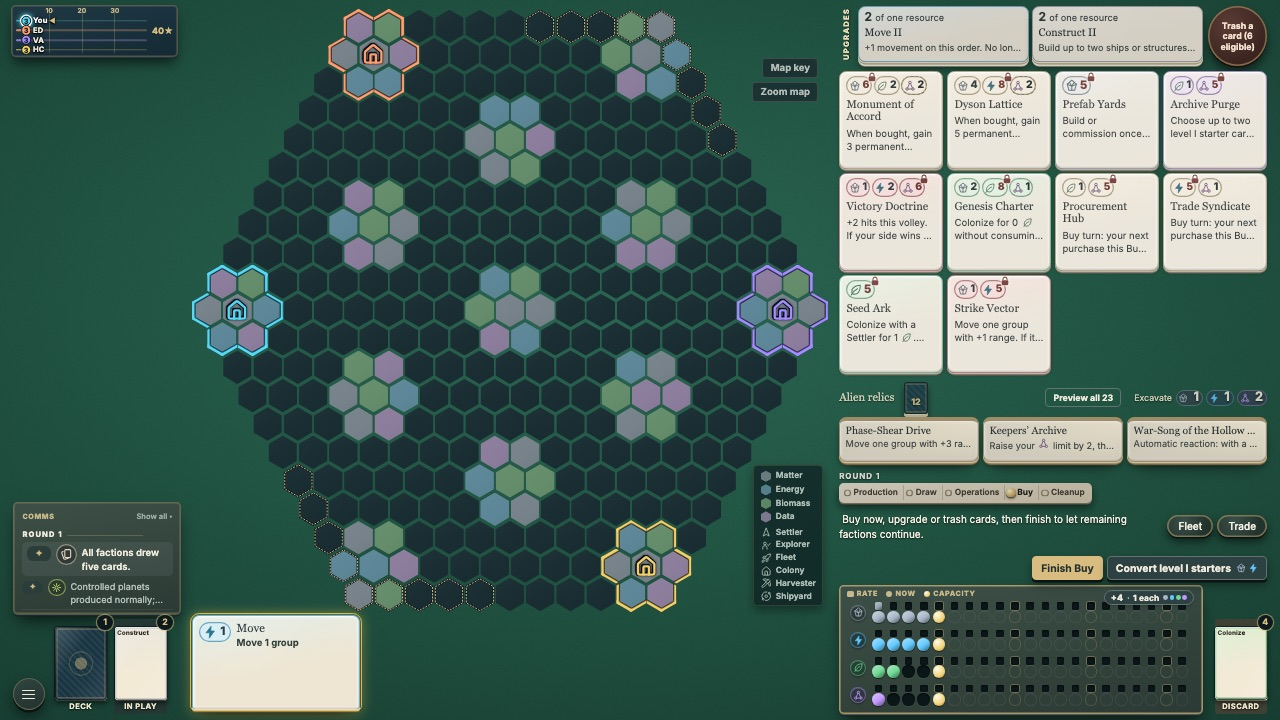
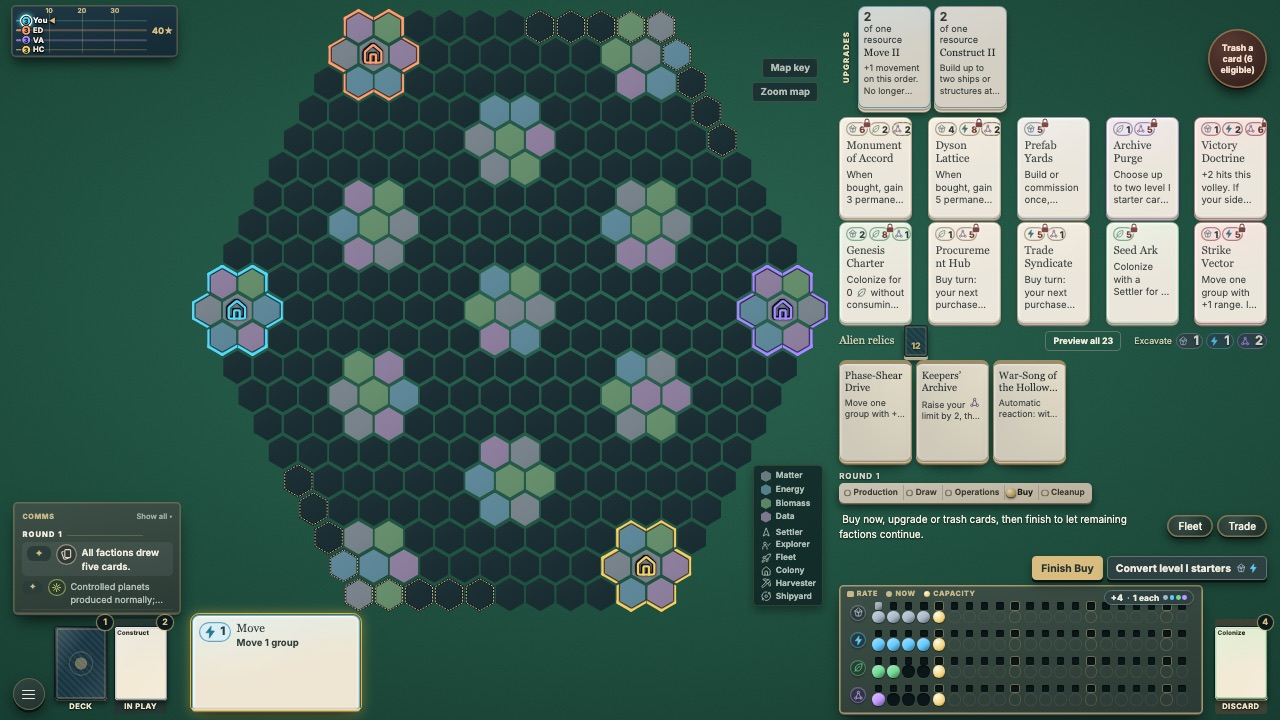
Adaptive supply cards: on wide tables market, upgrade and relic cards share one 63:88 card size sized to the supply column; squarer tables keep wider cards so the map stays big

Changed region(s): [[0.6562, 0.0, 1.0, 0.6722]]

diff --git a/prototypes/galactic-reach/rulebook.html b/prototypes/galactic-reach/rulebook.html
@@ -123,7 +123,7 @@
 
       <section id="movement">
         <h2>05 / Exploration &amp; movement</h2>
-        <p id="shared-board">Read shared table information around the board: on a desktop window, the whole window is one table, scaled as a whole to fit; the standings are the race to the Prestige goal, a small printed track by the map’s top-left corner with one lane per faction and its marker at its current score (the acting faction’s marker glows, with an arrow; point at or focus a marker for an overview of that faction’s Prestige sources, colonies, cards bought and fleet power, or select it for the breakdown; on a phone the track is the <strong>Table</strong> drawer); the comms feed lies in the bottom-left corner as a small card of the latest three entries, printed like your player mat; select it to open the whole feed, and again (or press Escape) to close it (each entry shows who acted, a symbol for the kind of event and its resource and Prestige amounts; point at an entry for the full sentence); the map itself fills all the space the other pieces leave, reaching into the corners around the track and the comms card, with a short key of the terrain colours and pieces in its bottom-right corner (the <strong>Map key</strong> button has the full descriptions); and to its right lies the supply, all visible together: the <strong>Upgrades</strong> tray (with <strong>Trash a card</strong> beside it during Buy), the ten market cards and the face-up alien relics; below the supply, by your seat, are the round’s phases, the turn prompt, <strong>Fleet</strong> and <strong>Trade</strong>, then the turn’s buttons. On your turn your hand glows and gently breathes (a still glow when your device asks for reduced motion). <strong>Fleet</strong> opens over the supply. The game’s title, rules, card gallery, new game, Undo and playtest notes open from the menu button in the bottom-left corner. The market shows its cards with their names and as much of each effect as fits, wrapped (point at one to read it in full; choose it to buy), and cards you can buy now are outlined in gold. <strong>Trade</strong> opens the trade channel in its own window. Card frames take the colour of the resource a card works with (gold for capacity, Buy and Prestige cards, red for military and attack cards); the map key shows them. Select a Prestige marker to inspect its breakdown; the scoring reference is in <a href="#victory">Victory</a>. On a narrow screen, these panels reflow inside the board frame; scroll the map to reach other hexes. The recent-action feed can say that Probe was used, but never gives its private relic location. Your hand, card piles, reserves, and full game-report download stay on your player mat. The report can include private information.</p>
+        <p id="shared-board">Read shared table information around the board: on a desktop window, the whole window is one table, scaled as a whole to fit; the standings are the race to the Prestige goal, a small printed track by the map’s top-left corner with one lane per faction and its marker at its current score (the acting faction’s marker glows, with an arrow; point at or focus a marker for an overview of that faction’s Prestige sources, colonies, cards bought and fleet power, or select it for the breakdown; on a phone the track is the <strong>Table</strong> drawer); the comms feed lies in the bottom-left corner as a small card of the latest three entries, printed like your player mat; select it to open the whole feed, and again (or press Escape) to close it (each entry shows who acted, a symbol for the kind of event and its resource and Prestige amounts; point at an entry for the full sentence); the map itself fills all the space the other pieces leave, reaching into the corners around the track and the comms card, with a short key of the terrain colours and pieces in its bottom-right corner (the <strong>Map key</strong> button has the full descriptions); and to its right lies the supply, all visible together: the <strong>Upgrades</strong> tray (with <strong>Trash a card</strong> beside it during Buy), the ten market cards and the face-up alien relics; below the supply, by your seat, are the round’s phases, the turn prompt, <strong>Fleet</strong> and <strong>Trade</strong>, then the turn’s buttons. On your turn your hand glows and gently breathes (a still glow when your device asks for reduced motion). <strong>Fleet</strong> opens over the supply. The game’s title, rules, card gallery, new game, Undo and playtest notes open from the menu button in the bottom-left corner. The market shows its cards with their names and as much of each effect as fits, wrapped; on a wide window the market, upgrade and relic cards are drawn in real card proportions (point at one to read it in full; choose it to buy), and cards you can buy now are outlined in gold. <strong>Trade</strong> opens the trade channel in its own window. Card frames take the colour of the resource a card works with (gold for capacity, Buy and Prestige cards, red for military and attack cards); the map key shows them. Select a Prestige marker to inspect its breakdown; the scoring reference is in <a href="#victory">Victory</a>. On a narrow screen, these panels reflow inside the board frame; scroll the map to reach other hexes. The recent-action feed can say that Probe was used, but never gives its private relic location. Your hand, card piles, reserves, and full game-report download stay on your player mat. The report can include private information.</p>
         <p id="keyboard-controls">Use <strong>Tab</strong> to reach controls and <strong>Enter</strong> or <strong>Space</strong> to activate them. The first link skips straight to player controls. Use arrow keys, Home, or End to switch the player-control tabs. Escape closes inspectors and reference windows. Combat and excess-resource choices stay open until you make the required choice.</p>
         <div class="book-legend" role="group" aria-label="Map symbols"><span><b class="relic-mark" aria-hidden="true">◈</b> Located relic</span><span><b class="relic-mark" aria-hidden="true">●</b> Gray moon · no production</span></div>
         <p>World terrain is always public, but seeing a world does not locate its relic. Any Settler, Fleet, or Explorer ending a move surveys that world or moon, revealing its terrain to everyone. Arrival never locates a relic. Use <strong>Probe</strong> from your Explorer’s current hex to locate the nearest remaining relic you have not already discovered, even on an unvisited world or hidden moon. Known sites are skipped. When you locate the last unknown site, a message tells you that all remaining relics are discovered. If all remaining sites are already known to you, Probe warns you without spending the card or your action. You do not need to reach that world or moon first. A signal on an undiscovered moon reveals the relic’s hex to you without revealing the moon’s terrain. Other players must locate it for themselves. Existing discovery relic cards keep their printed effects. Probe and Chorus signals stay private after later terrain surveys. Only an effect that explicitly reveals relics to everyone makes them public. All players’ units remain visible, including in empty space. Unit markers alone do not reveal a hidden moon or relic.</p>

diff --git a/prototypes/galactic-reach/styles.css b/prototypes/galactic-reach/styles.css
@@ -2569,3 +2569,42 @@ html { -webkit-text-size-adjust: 100%; text-size-adjust: 100%; }
   .storage-upgrade-button .storage-each i.biomass { background: var(--biomass); }
   .storage-upgrade-button .storage-each i.data { background: var(--data); }
 }
+
+/* ==== On wide tables the supply cards are real cards: market, upgrade and relic cards all share
+   one 63:88 card size, with the name on up to two lines and as much of the effect as fits. On
+   squarer tables (iPad landscape, ~1440x1200) they stay wider, with the same readable text, so
+   the map stays big. ==== */
+@media (min-width: 600px) and (min-height: 600px) and (orientation: landscape) {
+  /* One card size: at most 127 units tall, and narrow enough for five across the supply. The
+     container units resolve against the supply column wherever the size is used. */
+  .table-wide { --card-w: min(calc(127px * 63 / 88), calc((100cqw - 20px) / 5)); --card-h: calc(var(--card-w) * 88 / 63); }
+  /* The market: two rows of five. */
+  .table-wide #market-row { grid-template-columns: repeat(5, var(--card-w)) !important; grid-auto-rows: var(--card-h) !important; justify-content: space-between; align-content: start; }
+  .table-wide .market-cards #market-row .game-card { align-self: start !important; }
+  .table-wide .market-cards #market-row .game-card:not(:hover):not(:focus):not(:focus-within) { height: 100%; }
+  /* Long names break with a hyphen rather than run past a narrow card. */
+  .table-wide :is(#market-row, #upgrade-market, .relic-row) .card-name { hyphens: auto; overflow-wrap: break-word; }
+  /* Prices wrap onto a second line rather than run past a narrow card. */
+  .table-wide :is(#market-row, #upgrade-market, .relic-row) .card-footer { flex-wrap: wrap; row-gap: 2px; }
+  .table-wide :is(#market-row, #upgrade-market, .relic-row) .card-footer .resource-chip { min-height: 18px !important; padding: 0 3px 0 2px !important; }
+  .table-wide :is(#market-row, #upgrade-market, .relic-row) .card-footer .resource-symbol { width: 12px !important; height: 12px !important; }
+  .table-wide :is(#market-row, #upgrade-market, .relic-row) .card-footer .resource-chip strong { font-size: 11.5px !important; }
+  /* Upgrades: two cards in the tray. */
+  .table-wide #upgrade-market { --utop-h: var(--card-h) !important; grid-template-columns: 18px repeat(2, var(--card-w)) !important; justify-content: start; }
+  .table-wide #upgrade-market .game-card:not(:hover):not(:focus):not(:focus-within) { container-type: size; align-content: start; row-gap: 2px !important; padding: 4px 6px 5px !important; }
+  .table-wide #upgrade-market .game-card:not(:hover):not(:focus):not(:focus-within) .card-name { font-size: 13px !important; line-height: 1.15 !important; white-space: normal !important; }
+  .table-wide #upgrade-market .upgrade-price { white-space: normal !important; flex-wrap: wrap; row-gap: 0; line-height: 1.15; }
+  /* Relics: three face-up cards. */
+  .table-wide #relics-panel { --rtop-h: var(--card-h); }
+  .table-wide .relic-row { grid-template-columns: repeat(3, var(--card-w)) !important; justify-content: start; }
+  .table-wide .relic-row > div:not(:has(> .button)) .game-card:not(:hover):not(:focus):not(:focus-within) { container-type: size; }
+  .table-wide .relic-row .game-card:not(:hover):not(:focus):not(:focus-within) { grid-template-columns: minmax(0, 1fr) !important; grid-template-areas: "gain" "name" "effect" !important; align-content: start; row-gap: 3px !important; padding: 5px 6px !important; }
+  .table-wide .relic-row .game-card:not(:hover):not(:focus):not(:focus-within) .card-footer { justify-self: start; }
+  .table-wide .relic-row .game-card:not(:hover):not(:focus):not(:focus-within) .card-name { white-space: normal !important; display: -webkit-box; -webkit-box-orient: vertical; -webkit-line-clamp: 2; line-clamp: 2; overflow: hidden; text-overflow: clip; }
+  /* Effects wrap; the number of lines follows the card's own height (see the market rules). */
+  .table-wide :is(#upgrade-market, .relic-row) .game-card:not(:hover):not(:focus):not(:focus-within) .card-effect {
+    display: -webkit-box !important; -webkit-box-orient: vertical; -webkit-line-clamp: 1 !important; line-clamp: 1 !important; white-space: normal !important; overflow: hidden !important; font-size: 11px !important; line-height: 1.3 !important;
+  }
+  @container (min-height: 100px) { .table-wide :is(#upgrade-market, .relic-row) .game-card:not(:hover):not(:focus):not(:focus-within) .card-effect { -webkit-line-clamp: 2 !important; line-clamp: 2 !important; } }
+  @container (min-height: 112px) { .table-wide :is(#upgrade-market, .relic-row) .game-card:not(:hover):not(:focus):not(:focus-within) .card-effect { -webkit-line-clamp: 3 !important; line-clamp: 3 !important; } }
+}

diff --git a/prototypes/galactic-reach/app.js b/prototypes/galactic-reach/app.js
@@ -4652,9 +4652,12 @@ function createGalacticReach(options = {}) {
   function fitTable() {
     if (typeof document === 'undefined' || !document.documentElement?.style) return;
     const root = document.documentElement, shell = document.querySelector('.app-shell');
-    if (!tableLayout() || !shell) { ['--table-zoom','--table-w','--table-h'].forEach(name => root.style.removeProperty(name)); return; }
+    if (!tableLayout() || !shell) { ['--table-zoom','--table-w','--table-h'].forEach(name => root.style.removeProperty(name)); root.classList.remove('table-wide'); return; }
     const width = window.innerWidth, height = Math.max(1, window.innerHeight - Math.max(0, shell.getBoundingClientRect().top));
     const [tableW, tableH] = tableSize(width, height);
+    // Wide tables have room for supply cards in real card proportions; squarer ones keep wider
+    // cards so the map stays big.
+    root.classList.toggle('table-wide', tableW === 1600);
     let zoom = Math.min(width / tableW, height / tableH), layoutW = width / zoom;
     const apply = () => {
       root.style.setProperty('--table-zoom', String(zoom));

diff --git a/changes/gr-ui-followup.md b/changes/gr-ui-followup.md
@@ -3,4 +3,4 @@ compat: safe
 title: The turn lies with your seat
 pr: 74
 ---
-The round's phases, the turn prompt and Fleet/Trade now sit at the bottom of the supply, next to your hand and the turn's buttons, and the supply starts at the top. On your turn your hand glows and gently breathes instead of a "Your turn" banner ([Shared board](rulebook.html#shared-board)). Market cards show their whole name and as much of their effect as fits, so they read without pointing at them. A short key of the terrain colours and pieces lies in the map's empty corner. Your hand, the market, your mat and the map read first; the relics, upgrades, phases and comms sit back until you point at them. The mat no longer offers a Discard: resources above a limit are still discarded automatically ([Resources](rulebook.html#resources)). The +4 capacity token always shows its current price.
+The round's phases, the turn prompt and Fleet/Trade now sit at the bottom of the supply, next to your hand and the turn's buttons, and the supply starts at the top. On your turn your hand glows and gently breathes instead of a "Your turn" banner ([Shared board](rulebook.html#shared-board)). Market cards show their whole name and as much of their effect as fits, so they read without pointing at them; on wide windows market, upgrade and relic cards are real card shapes. A short key of the terrain colours and pieces lies in the map's empty corner. Your hand, the market, your mat and the map read first; the relics, upgrades, phases and comms sit back until you point at them. The mat no longer offers a Discard: resources above a limit are still discarded automatically ([Resources](rulebook.html#resources)). The +4 capacity token always shows its current price.
